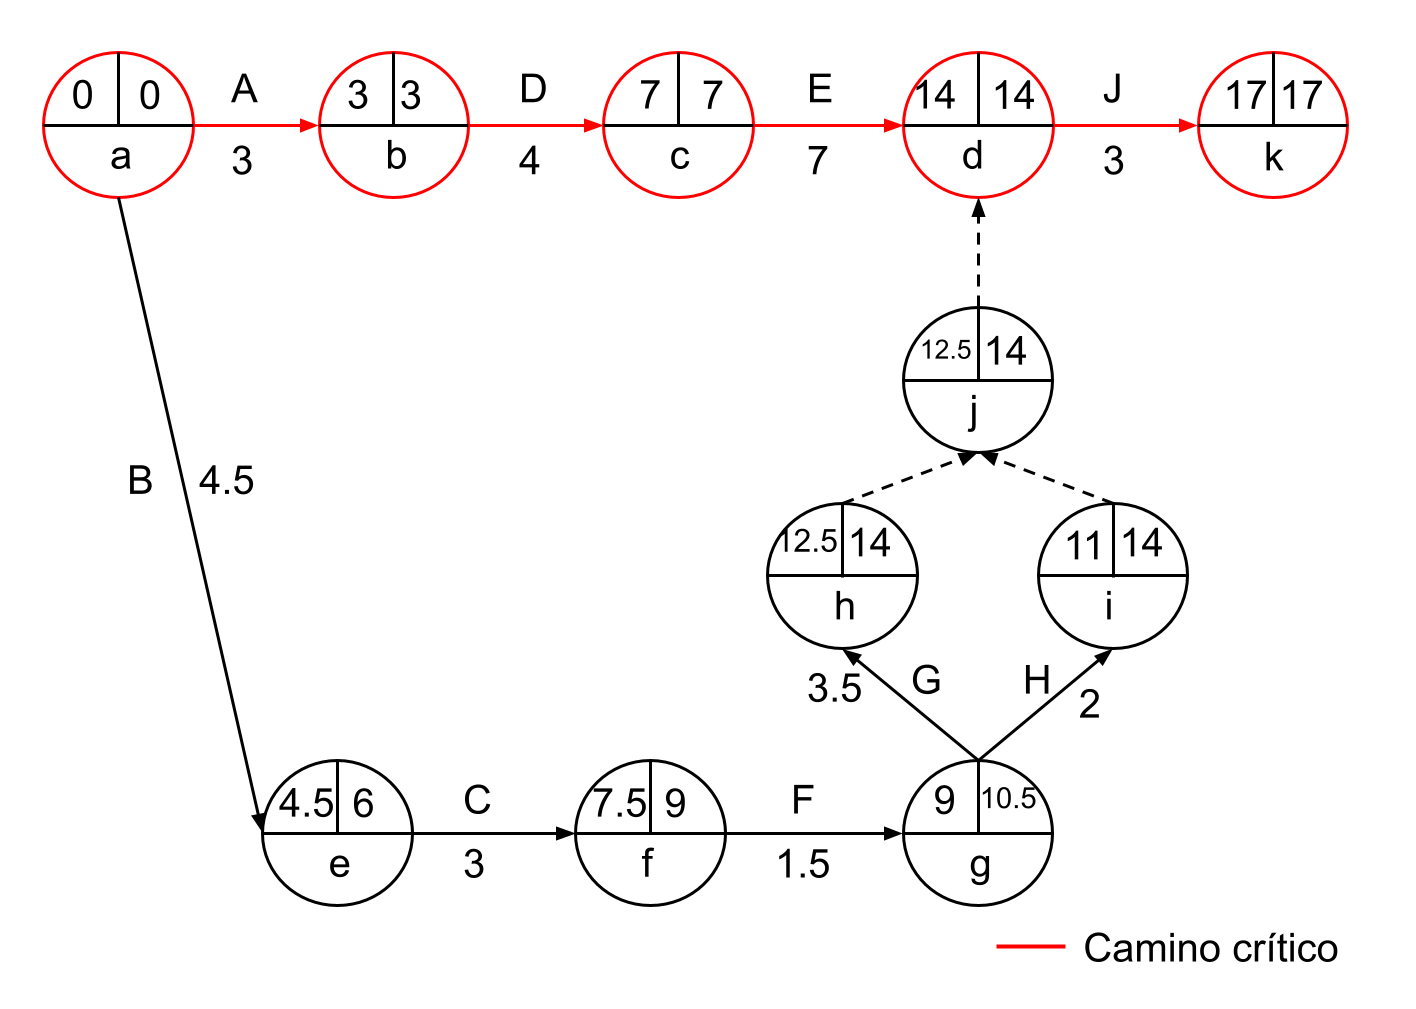
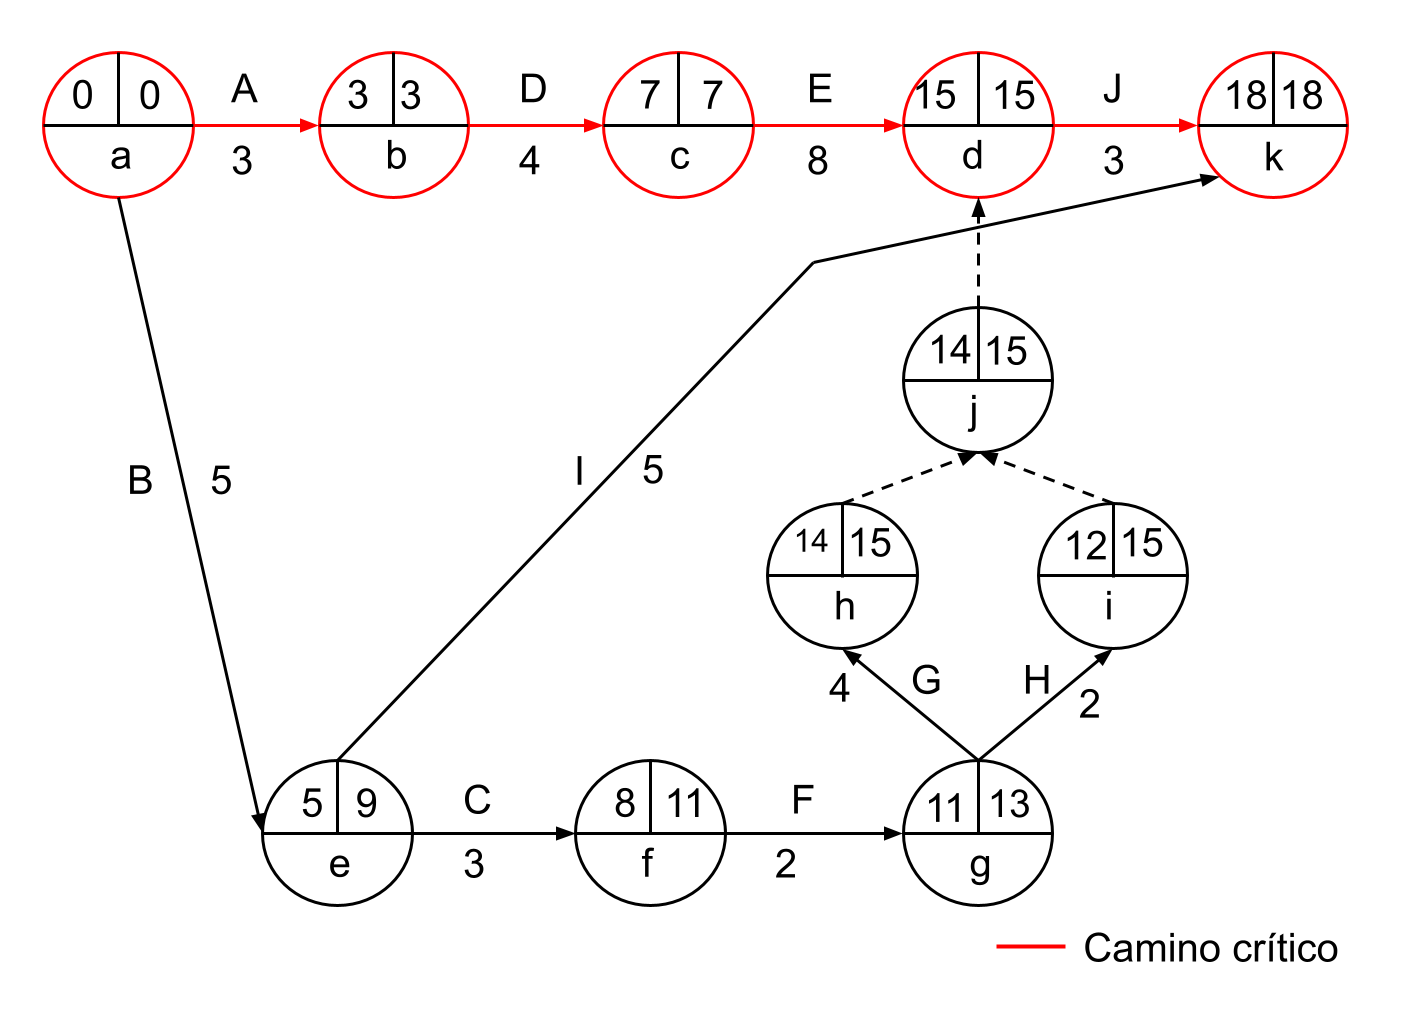
📝 Update report

diff --git a/reports/pert_examples.tex b/reports/pert_examples.tex
@@ -7,6 +7,9 @@
 \usepackage{xcolor}
 \usepackage{tikz}
 \usetikzlibrary{positioning, shapes.multipart}
+\usepackage{csvsimple}
+\usepackage{pgfplotstable,booktabs}
+\pgfplotsset{compat=1.16}
 
 \begin{document}
 \title{Ejercicios de PERT}
@@ -23,24 +26,10 @@ como sus precedentes y la duración expresada en semanas (optimista, pesimista y
 más probable):  \\
 \\
 
+
 \begin{center}
-\begin{tabular}{ccp{0.125\linewidth}p{0.125\linewidth}p{0.125\linewidth}}
-Actividad &   Precedentes   &   Estimación optimista    &   Estimación probable
-&   Estimación pesimista \\
-\hline
-A   &    -   &   1   &   2   &   3   \\
-B   &    A   &   2   &   4   &   6   \\
-C   &   B,H  &   1   &   1   &   1   \\
-D   &    -   &   3   &   6   &   9   \\
-E   &    G   &   2   &   3   &   4   \\
-F   &    E   &   3   &   5   &   7   \\
-G   &    D   &   1   &   2   &   3   \\
-H   &    G   &   1   &   2   &   3   \\
-I   &    D   &   1   &   3   &   5   \\
-J   &    I   &   3   &   4   &   5   \\
-K   &    D   &   2   &   3   &   4   \\
-L   &   J,K  &   3   &   5   &   7   \\
-M   &   C,L  &   1   &   2   &   3   \\
+\begin{tabular}{cccccccc}
+\input{tables/statistics_PERT_01.tex}
 \end{tabular}
 \end{center}
 
@@ -52,7 +41,7 @@ M   &   C,L  &   1   &   2   &   3   \\
     \item Matriz asociada al grafo
     
     \begin{center}
-    \begin{tabular}{c|cccccccccccccc}
+    \begin{tabular}{ccccccccccccccc}
           & A & B & C & D & E & F & G & H & I & J & K & L & M \\
       \hline
         A   & 0 & 0 & 0 & 0 & 0 & 0 & 0 & 0 & 0 & 0 & 0 & 0 & 0 \\
@@ -101,20 +90,8 @@ y estimaciones de tiempos. El director ha desarrollado el proyecto con 11
 actividades que se presentan en el siguiente cuadro: \\
 \\
 \begin{center}
-  \begin{tabular}{cp{0.18\linewidth}cp{0.1\linewidth}p{0.12\linewidth}p{0.1\linewidth}}
-    Actividad   &    Detalle    &   Precedentes & Est. optimista  & Est.
-    más probable    &   Est. pesimista    \\
-    \hline
-      A  & Seleccionar tipo de oficinas & -      &  1    &  3   &  5  \\
-      B  & Crear plan organizacional    & -      &  3    &  4.5 &  9  \\ 
-      C  & Determinar personal          & B      &  2    &  3   &  4  \\ 
-      D  & Diseñar las instalaciones    & A,C    &  2    &  4   &  6  \\ 
-      E  & Contruir los interiores      & D      &  4    &  7   &  16 \\
-      F  & Seleccionar personal         & C      &  1    &  1.5 &  5  \\
-      G  & Contratar nuevos empleados   & F      &  2.5  &  3.5 &  7.5\\
-      H  & Traslado de archivos y material & F      &  1    &  2   &  3  \\
-      I  & Hacer arreglos financieros   & B      &  4    &  5   &  6  \\
-      J  & Capacita nuevo personal      & H,E,G  &  1.5  &  3   &  4.5
+  \begin{tabular}{ccccccccc}
+      \input{tables/statistics_PERT_02.tex}
   \end{tabular}
 \end{center}
 
@@ -142,18 +119,32 @@ actividades que se presentan en el siguiente cuadro: \\
       \end{tabular}
     \end{center}
 
-    \item Duración estimada del proyecto en días
+    \item \textbf{Duración estimada del proyecto en días}
 
-    17 días
+    18 días
 
     \item Responder las siguientes preguntas relacionadas con el proyecto:
 
-    - ¿Cuál será la probabilidad de terminar el proyecto hasta 18 días?
+    - \textbf{¿Cuál será la probabilidad de terminar el proyecto hasta 18 días?}
 
-    - ¿Cuál será la probabildad de terminar el proyecto hasta 25 días?
+      La probabilidad es del 50\%
+      (ver la siguiente tabla)
 
-- ¿Cuál será la duración del proyecto para una probabilidad de finalización del
-95\%?
+    - \textbf{¿Cuál será la probabildad de terminar el proyecto hasta 25 días?}
+      
+      La probabilidad es del 100\%
+      (ver la siguiente tabla)
+
+- \textbf{¿Cuál será la duración del proyecto para una probabilidad de finalización del
+95\%?}
+
+Sería de 21 días (ver la siguiente tabla)
+
+\begin{center}
+  \begin{tabular}{ccccccc}
+    \input{tables/statistics_proba_PERT_2.tex}
+  \end{tabular}
+\end{center}
     
 \end{itemize}
 
